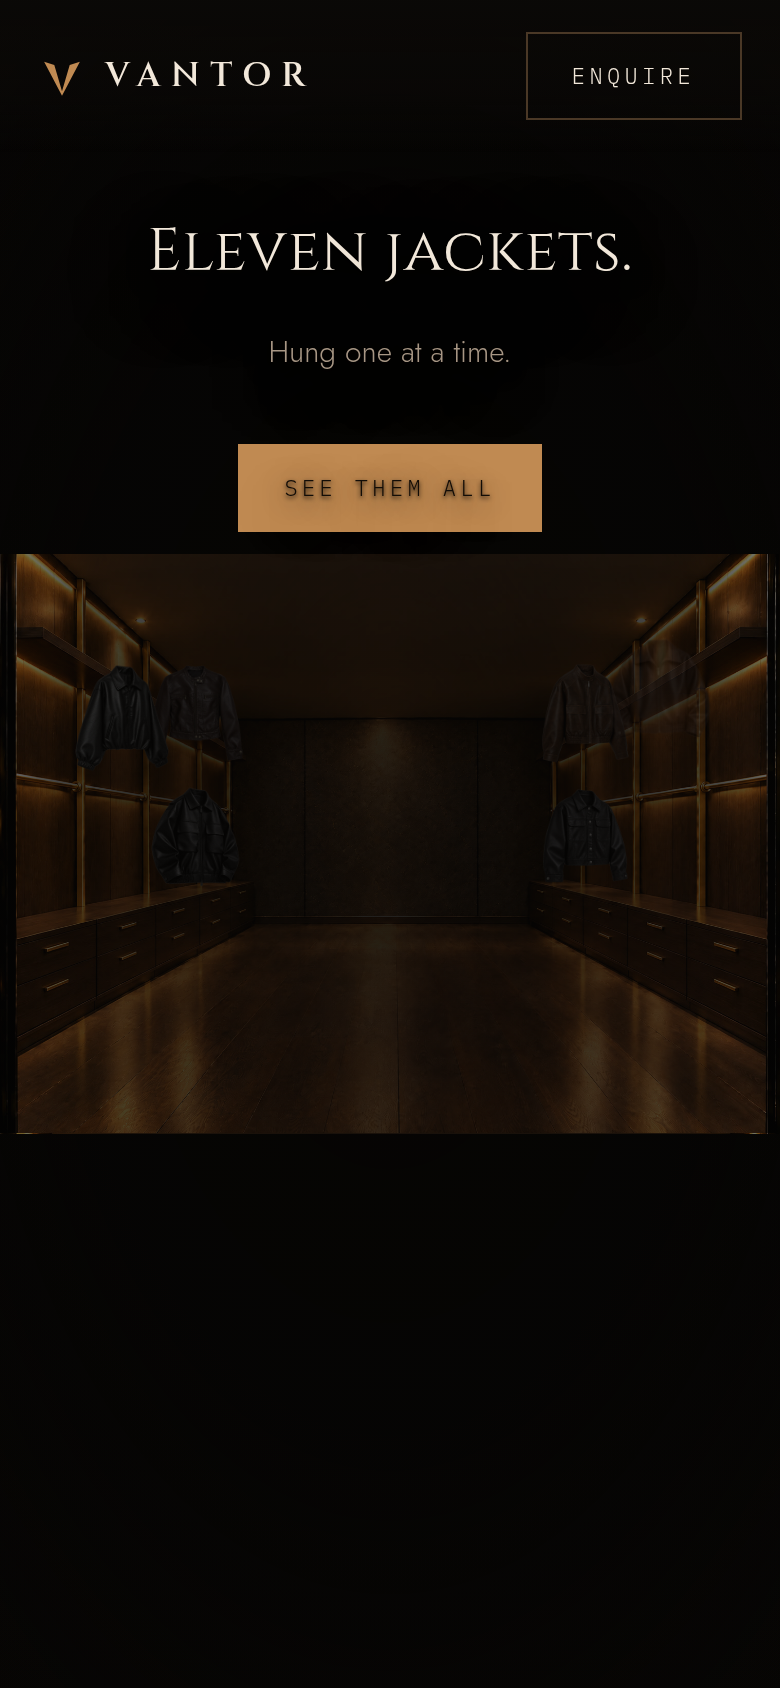
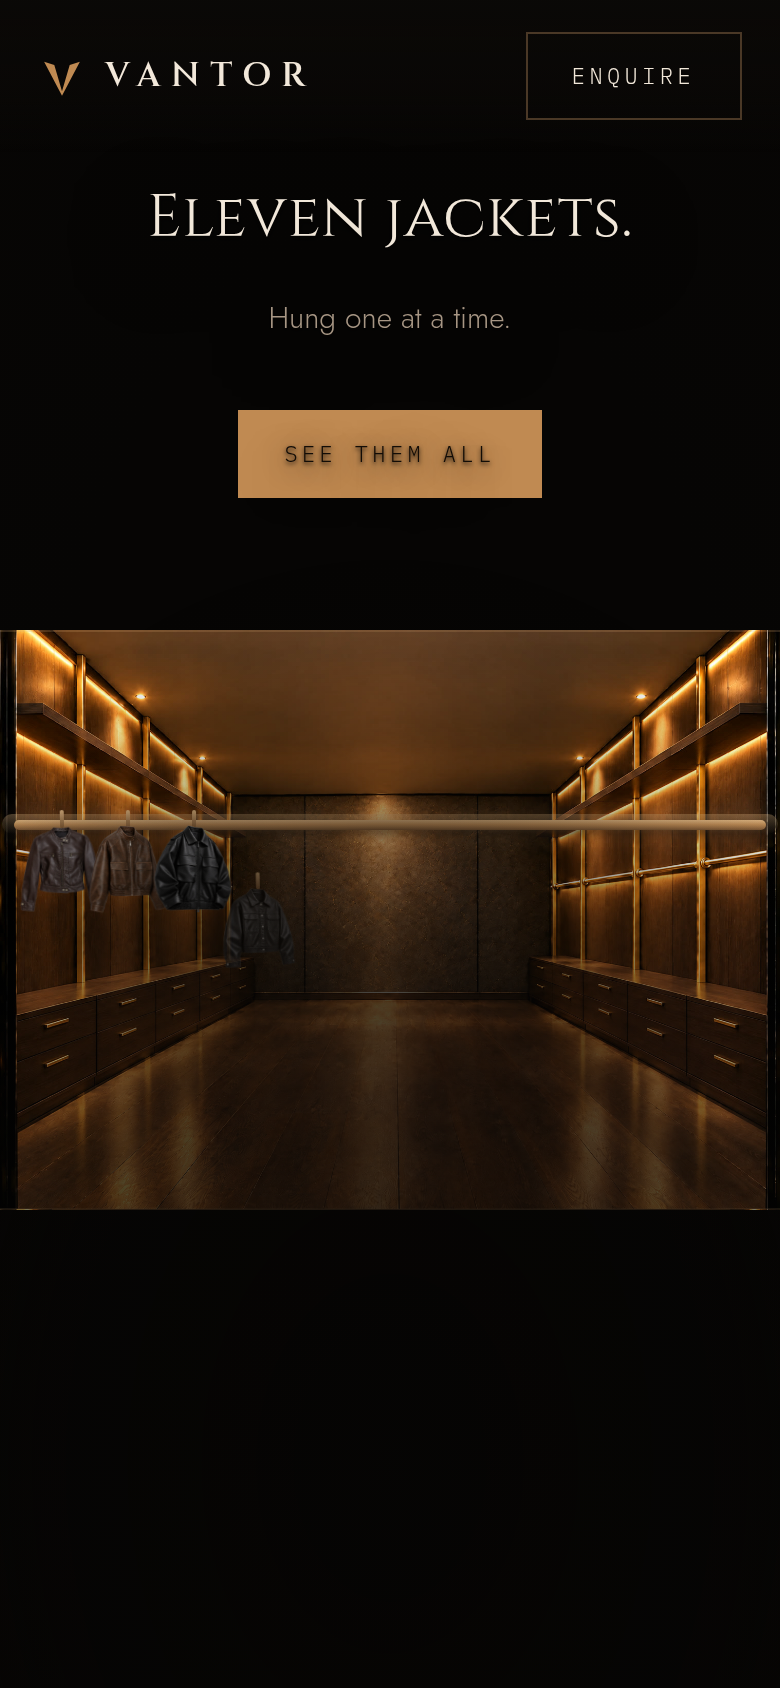
Build the wardrobe: drawer banks, a hanging rail, jackets that rise onto it
The boxes and shelves now show as being built, and the eleven garments hang on
brass rather than near it.

The drawer banks were measured off the room itself by differencing the railed
frame against the fitted one: the left runs y 58 to 79 percent of the frame and
x 10 to 35, the right y 58 to 82 and x 65 to 91. Each stacks upward out of the
floor in four tiers, easing then holding on each course, so you watch the
shelves go in rather than watch a panel slide. The right bank starts a beat
after the left, because two banks building in lockstep read as one object.

Those banks are cut from the fitted frame, which was shot with the lights
already up, so dropped straight onto the unlit room they showed as a bright
rectangle. Measured across both banks the unlit room is 0.591 of the fitted one,
so the layer is dimmed by exactly that and lifted back to 1 on the same beat as
the lights. That left a residual step where the clip meets the floor, 1.7 of
about 45 on the left and 2.6 of 50 on the right, which over a run that wide
shows as a line; masking the resting edges soft takes both to 0.5 and 0.7, below
the image's own noise. The build edge travels through the opaque middle of that
mask and stays hard, because a shelf going in should have an edge.

The garments hang on a drawn rail across the middle of the room. The wall rails
run diagonally with the perspective and their fitted lines come out asymmetric
[…]

diff --git a/site/index.html b/site/index.html
@@ -157,13 +157,16 @@ a{color:inherit}
    hand. A little more depth buys headroom for a visitor on a bright screen. */
 #b3::before{background:radial-gradient(ellipse 80% 66% at 50% 50%,
   rgba(6,5,4,.78) 0%,rgba(6,5,4,.56) 48%,rgba(6,5,4,0) 78%)}
-#b4::before{background:radial-gradient(ellipse 86% 70% at 50% 50%,
-  rgba(6,5,4,.90) 0%,rgba(6,5,4,.72) 46%,rgba(6,5,4,.28) 72%,rgba(6,5,4,0) 88%)}
 .band .inner{position:relative;max-width:min(1100px,92vw);text-align:center}
-/* the closing beat drops below the rail so it never sits across the garments */
-#b3{place-items:end center;padding-bottom:clamp(28px,7vh,74px)}
+/* The last two beats drop to the floor of the frame. Band 3 because the light
+   it names comes from above, and band 4 because centred it lands straight
+   across the eleven garments it is talking about, which reads as a caption
+   pasted on the picture rather than a line spoken in the room. */
+#b3,#b4{place-items:end center;padding-bottom:clamp(28px,7vh,74px)}
 #b3::before{background:radial-gradient(ellipse 78% 46% at 50% 82%,
   rgba(6,5,4,.88) 0%,rgba(6,5,4,.62) 52%,rgba(6,5,4,0) 82%)}
+#b4::before{background:radial-gradient(ellipse 82% 54% at 50% 84%,
+  rgba(6,5,4,.92) 0%,rgba(6,5,4,.70) 50%,rgba(6,5,4,.20) 76%,rgba(6,5,4,0) 92%)}
 .band h2{font-family:var(--display);font-weight:400;margin:0;
   font-size:clamp(30px,6.2vw,76px);line-height:1.08;letter-spacing:.012em}
 .band h2 .vh{position:absolute;width:1px;height:1px;overflow:hidden;clip:rect(0 0 0 0);white-space:nowrap}
@@ -238,11 +241,30 @@ a{color:inherit}
    rails but keeps every jacket on screen, and move the copy off the room so the
    two stop fighting for the same space. */
 @media (max-aspect-ratio: 3/4){
-  .room-frame{width:132%}
-  .band{place-items:start center;padding-top:13vh}
+  .room-frame{width:132%;margin-top:9vh}
+  /* A 16:9 room on a tall phone letterboxes whatever you do, and widening it
+     any further starts throwing the end jackets off the sides. So the frame is
+     dropped to sit under the copy rather than floating in the middle of the
+     black, and given a brass hairline top and bottom so the letterbox reads as
+     a film frame instead of a picture that failed to load. */
+  .room-frame::after{content:"";position:absolute;inset:0;pointer-events:none;z-index:9;
+    border-top:1px solid rgba(224,174,119,.20);
+    border-bottom:1px solid rgba(224,174,119,.20)}
+  .band{place-items:start center;padding-top:11vh}
   .band .inner{max-width:94vw}
-  #b3{place-items:start center;padding-top:13vh;padding-bottom:0}
+  #b3,#b4{place-items:start center;padding-top:11vh;padding-bottom:0}
   .cue{bottom:22px}
+}
+/* On a short phone the copy block and the top of the frame arrive at the same
+   place and the button crosses into the room. Rather than shrink the room,
+   which is the whole point of the beat, the block is tightened and the frame
+   dropped a little further. Measured at 375 by 667, which is the shortest
+   screen this has to hold. */
+@media (max-aspect-ratio: 3/4) and (max-height: 740px){
+  .band,#b3,#b4{padding-top:14vh}
+  .room-frame{margin-top:21vh}
+  .band .sub{margin-top:14px}
+  #b4 .row{margin-top:18px}
 }
 
 .stageimg{position:absolute;inset:0;background-size:cover;background-position:center;
@@ -256,14 +278,53 @@ a{color:inherit}
 /* the lights coming up change the whole frame at once, so that one is a fade */
 .stageimg[data-stage="3"]{opacity:var(--o,0)}
 
-/* Each jacket is its own cut out, lowered onto the rail. Using the cut outs
-   rather than clipping the finished photograph is what makes them read as
-   eleven separate garments being hung rather than a curtain coming down. */
+/* The drawer banks, measured off the room itself: they sit x 10 to 35 percent on
+   the left and 65 to 91 on the right, from 58 percent of the height down to the
+   floor. Each stacks upward out of the floor before the lights come on.
+   These are cut from the FITTED frame, which was shot with the lights already
+   up, so dropped straight onto the unlit room they show as a bright rectangle.
+   Measured across both banks the unlit room is 0.591 of the fitted one, so the
+   layer is dimmed by exactly that and then lifted back to 1 as the lights come
+   on. Matched that way the clip edge disappears into the wall. */
+.drawer{position:absolute;background-size:cover;background-position:center;
+  will-change:clip-path,filter;filter:brightness(var(--dbr,.591))}
+.drawer[data-side="l"]{inset:0;clip-path:inset(var(--dl,79%) 65% 21% 10%)}
+.drawer[data-side="r"]{inset:0;clip-path:inset(var(--dr,82%) 9% 18% 65%)}
+/* Even matched on exposure the clip leaves a measurable step where it meets the
+   floor: 1.7 of about 45 on the left, 2.6 of 50 on the right, which over a run
+   that wide shows as a line. So each bank is masked soft at the two edges that
+   come to rest. The build edge travels through the opaque middle and stays
+   hard, because a shelf going in should have an edge. */
+.drawer[data-side="l"]{-webkit-mask-image:var(--maskL);mask-image:var(--maskL);
+  --maskL:linear-gradient(to bottom,transparent 56%,#000 59.5%,#000 76%,transparent 81%)}
+.drawer[data-side="r"]{-webkit-mask-image:var(--maskR);mask-image:var(--maskR);
+  --maskR:linear-gradient(to bottom,transparent 56%,#000 59.5%,#000 79%,transparent 84%)}
+
+/* The rail the jackets hang on. The wall rails run diagonally with the
+   perspective, and their fitted lines come out asymmetric, so hanging garments
+   off them lands them near the brass rather than on it. This one is drawn, so
+   every jacket sits on it exactly, at any screen size. */
+.midrail{position:absolute;left:13.5%;right:13.5%;top:33.5%;height:0;pointer-events:none;
+  transform:translateY(var(--rdrop,-18px)) scaleX(var(--rail,0));
+  transform-origin:50% 50%;will-change:transform}
+.midrail::before{content:"";position:absolute;inset:-2px 0 auto 0;height:5px;
+  border-radius:3px;
+  background:linear-gradient(180deg,#E8BC85 0%,#C08A52 45%,#7A5330 100%);
+  box-shadow:0 0 14px rgba(224,174,119,.45), 0 2px 5px rgba(0,0,0,.5)}
+.midrail::after{content:"";position:absolute;left:-6px;right:-6px;top:-5px;height:10px;
+  border-radius:5px;background:linear-gradient(180deg,rgba(232,188,133,.35),rgba(122,83,48,0))}
+
+/* Each jacket is its own cut out. They rise from below and settle onto the rail,
+   one after another, which is what makes them read as eleven separate garments
+   being hung rather than a block appearing. */
 .hangers{position:absolute;inset:0;pointer-events:none}
 .hangers .jk{position:absolute;aspect-ratio:1;transform-origin:50% 0;
   will-change:transform,opacity;opacity:0}
 .hangers .jk img{width:100%;height:100%;object-fit:contain;display:block;
-  filter:drop-shadow(0 14px 22px rgba(0,0,0,.6))}
+  filter:drop-shadow(0 16px 26px rgba(0,0,0,.66))}
+.hangers .jk::before{content:"";position:absolute;left:50%;top:-7px;width:2px;height:9px;
+  transform:translateX(-50%);border-radius:1px;
+  background:linear-gradient(180deg,#E8BC85,#8A5F37)}
 
 /* a bronze flare at the moment each stage locks into place */
 .flash{position:absolute;inset:0;pointer-events:none;opacity:0;
@@ -345,6 +406,9 @@ body.detail-open{overflow:hidden}
   .act-room{opacity:1!important;transform:none!important}
   .stageimg{opacity:1!important;clip-path:none!important}
   .hangers .jk{opacity:1!important;transform:none!important}
+  .midrail{transform:none!important}
+  .drawer{clip-path:inset(58% 65% 21% 10%)!important;filter:none!important}
+  .drawer[data-side="r"]{clip-path:inset(58% 9% 18% 65%)!important}
   .flash{opacity:0!important}
   .detail{transition:none}
 }
@@ -544,7 +608,11 @@ body.paused *,body.paused *::before,body.paused *::after{animation-play-state:pa
         <div class="stageimg" data-stage="0" style="background-image:url('assets/room/1-empty.jpg')"></div>
         <div class="stageimg" data-stage="1" style="background-image:url('assets/room/2-posts.jpg')"></div>
         <div class="stageimg" data-stage="2" style="background-image:url('assets/room/3-rails.jpg')"></div>
+        <!-- the drawer banks build upward out of the floor before the lights -->
+        <div class="drawer" data-side="l" style="background-image:url('assets/room/4-fitted.jpg')"></div>
+        <div class="drawer" data-side="r" style="background-image:url('assets/room/4-fitted.jpg')"></div>
         <div class="stageimg" data-stage="3" style="background-image:url('assets/room/4-fitted.jpg')"></div>
+        <div class="midrail" id="midrail" aria-hidden="true"></div>
         <div class="hangers" id="hangers"></div>
         <div class="flash" id="flash" aria-hidden="true"></div>
       </div>
@@ -568,7 +636,7 @@ body.paused *,body.paused *::before,body.paused *::after{animation-play-state:pa
 
     <div class="band" id="b3" data-a="0.58" data-b="0.74">
       <div class="inner">
-        <h2 data-split="word"><span class="vh">Lit from above.</span><span class="vis" aria-hidden="true">Lit from above.</span></h2>
+        <h2 data-split="word"><span class="vh">Shelved, then lit.</span><span class="vis" aria-hidden="true">Shelved, then lit.</span></h2>
         <p class="sub">Every piece where you can see it.</p>
       </div>
     </div>
@@ -869,42 +937,91 @@ function put(el, prop, val, key){
 }
 
 /* Where each stage builds, and how. Stage 0 is the room, which falls into place
-   rather than being revealed. */
+   rather than being revealed. The drawer banks and the hanging rail sit between
+   the fixed stages, so the whole wardrobe reads as one continuous build:
+   posts, rails, boxes, light, rail, garments. */
 var STAGE_BUILD = [
   null,                 /* 0 the room itself */
-  [0.26, 0.46],         /* 1 brass grows up */
-  [0.46, 0.60],         /* 2 rails span out */
-  [0.60, 0.72],         /* 3 lights come up */
+  [0.26, 0.44],         /* 1 brass grows up */
+  [0.44, 0.55],         /* 2 rails span out */
+  [0.66, 0.755],        /* 3 lights come up */
   null                  /* 4 replaced by the hangers below */
 ];
 
-/* Where each jacket hangs. The rails were measured, not guessed, by
-   differencing the empty room against the finished one: each runs 13.4 to 34.5
-   percent of the frame on the left and 65.5 to 86.8 on the right, in two rows
-   between 19 and 63 percent of the height. Nearer the camera is nearer the
-   frame edge, so those jackets are larger. Heights are a share of the frame
-   height; the cut outs are square, so width follows from the 16:9 frame. */
+/* A stepped ease. Anything assembled out of parts uses this rather than a plain
+   ramp: each part eases in, holds, and only then does the next one start. That
+   hold is the difference between a thing being built and a thing sliding in. */
+function stepped(r, n){
+  if(r <= 0) return 0;
+  if(r >= 1) return 1;
+  var s = r*n, i = Math.floor(s), f = s - i;
+  return (i + smoothstep(f, 0, 0.7)) / n;
+}
+
+/* The drawer banks. Their boxes were measured off the room, by differencing the
+   railed frame against the fitted one: the left bank runs y 58 to 79 percent,
+   the right y 58 to 82. Each one stacks upward out of the floor in four tiers,
+   so you watch the shelves go in one course at a time. The right bank starts a
+   beat after the left, because two banks building in lockstep read as one. */
+var DRAWERS = [
+  { sel:'[data-side="l"]', prop:'--dl', a:0.545, b:0.650, floor:79, lid:58, tiers:4 },
+  { sel:'[data-side="r"]', prop:'--dr', a:0.568, b:0.672, floor:82, lid:58, tiers:4 }
+];
+var drawerEls = null, lastDrawer = [];
+function drawDrawers(p){
+  if(!drawerEls) drawerEls = DRAWERS.map(function(d){ return $('.drawer' + d.sel, room); });
+  for(var i=0;i<DRAWERS.length;i++){
+    var d = DRAWERS[i], el = drawerEls[i];
+    if(!el) continue;
+    var k = stepped(smoothstep(p, d.a, d.b), d.tiers);
+    var v = (d.floor - k*(d.floor - d.lid)).toFixed(2) + '%';
+    if(lastDrawer[i] !== v){ lastDrawer[i] = v; el.style.setProperty(d.prop, v); }
+  }
+  /* lift out of the unlit exposure on the same beat as the lights above */
+  var br = (0.591 + smoothstep(p, 0.66, 0.755)*0.409).toFixed(3);
+  if(lastDrawer.br !== br){
+    lastDrawer.br = br;
+    for(var j=0;j<drawerEls.length;j++)
+      if(drawerEls[j]) drawerEls[j].style.setProperty('--dbr', br);
+  }
+}
+
+/* The hanging rail draws outward from the centre and drops the last few pixels
+   onto its brackets, which is the beat the first jacket arrives on. */
+var RAIL_A = 0.735, RAIL_B = 0.805;
+var railEl = null, lastRail = '';
+function drawRail(p){
+  if(!railEl) railEl = $('#midrail');
+  if(!railEl) return;
+  var k  = smoothstep(p, RAIL_A, RAIL_B);
+  var sx = k.toFixed(4);
+  var dy = (-18*(1-k)).toFixed(2) + 'px';
+  var key = sx + '|' + dy;
+  if(lastRail === key) return;
+  lastRail = key;
+  railEl.style.setProperty('--rail', sx);
+  railEl.style.setProperty('--rdrop', dy);
+}
+
+/* Where each jacket hangs. The wall rails run diagonally with the perspective
+   and their fitted lines come out asymmetric between the two sides, so garments
+   hung off them land near the brass rather than on it. These hang on the drawn
+   rail instead, which puts every one of them exactly on the bar at any screen
+   size. Eleven centres evenly across it, cut outs square, so a width in frame
+   width maps to nine sixteenths of it in frame height. */
 var JACKETS = (function(){
-  var rows = [18.5, 40.0];                  /* top of the upper and lower rails */
-  var cols = [                              /* centre x, height, per column */
-    { lx:31.1, rx:68.9, h:17.5 },           /* far */
-    { lx:24.0, rx:76.0, h:19.5 },
-    { lx:16.9, rx:83.1, h:21.5 }            /* nearest the camera */
-  ];
-  var out = [];
-  /* hung from the far end of both rails forward, alternating sides, which is
-     the order somebody actually working the rail would use */
-  var plan = [
-    [0,'l',0],[0,'r',0],[0,'l',1],[0,'r',1],
-    [1,'l',0],[1,'r',0],[1,'l',1],[1,'r',1],
-    [2,'l',0],[2,'r',0],[2,'l',1]
-  ];
-  plan.forEach(function(q, i){
-    var c = cols[q[0]], cx = (q[1] === 'l') ? c.lx : c.rx;
-    var hPct = c.h;
-    var wPct = hPct * 9 / 16;               /* square in a 16:9 frame */
-    out.push({ left:(cx - wPct/2), top:rows[q[2]], h:hPct, w:wPct, slug:RANGE[i][0] });
-  });
+  var n = RANGE.length, x0 = 18, x1 = 82, wPct = 8.8, out = [];
+  for(var i=0;i<n;i++){
+    var cx = x0 + (x1-x0)*(i/(n-1));
+    /* Eleven hangers pushed onto one bar never sit to the millimetre. A fixed
+       tilt and a hair of height per garment, seeded off the index so it is the
+       same every reload, is the difference between a rail and a row of stamps. */
+    out.push({
+      left:(cx - wPct/2), w:wPct, slug:RANGE[i][0],
+      top: 33.5 + ((i*53)%5 - 2)*0.09,
+      tilt: ((i*37)%7 - 3)*0.42
+    });
+  }
   return out;
 })();
 
@@ -920,18 +1037,28 @@ function buildHangers(){
   hangEls = $$('#hangers .jk');
 }
 
-var HANG_FROM = 0.72, HANG_TO = 0.99;
+/* One at a time, left to right along the bar, the way somebody actually working
+   a rail would do it. Each one rises from the floor, meets the brass, and swings
+   itself still. */
+var HANG_FROM = 0.795, HANG_TO = 0.99, HANG_OVER = 1.6;
 var lastHang = [];
 function drawHangers(p){
   var n = hangEls.length;
+  if(!n) return;
+  /* Each jacket's window overlaps the next by HANG_OVER, so the rail fills
+     continuously rather than in eleven separate stops. The step is sized off
+     that overlap, not off n, so the last one finishes exactly on HANG_TO
+     instead of running past the end of the hero with its feet in the air. */
+  var span = (HANG_TO - HANG_FROM) / (n - 1 + HANG_OVER);
   for(var i=0;i<n;i++){
-    var span = (HANG_TO - HANG_FROM) / n;
     var a0 = HANG_FROM + i*span;
-    var k = smoothstep(p, a0, a0 + span*1.5);
-    /* it drops in, overshoots a little, and swings to rest on the hook */
-    var swing = Math.sin((1-k) * Math.PI * 2) * (1-k) * 7;
-    var v = 'translateY(' + ((1-k) * -46).toFixed(1) + '%) rotate(' + swing.toFixed(2) + 'deg)';
-    var o = k.toFixed(3);
+    var k  = smoothstep(p, a0, a0 + span*HANG_OVER);
+    var rise  = (1-k)*150;
+    var swing = Math.sin((1-k)*Math.PI*3)*(1-k)*6 + JACKETS[i].tilt*k;
+    var sc    = 0.9 + k*0.1;
+    var v = 'translateY(' + rise.toFixed(1) + '%) rotate(' + swing.toFixed(2)
+          + 'deg) scale(' + sc.toFixed(3) + ')';
+    var o = Math.min(1, k*1.4).toFixed(3);
     var key = v + o;
     if(lastHang[i] !== key){
       lastHang[i] = key;
@@ -943,21 +1070,21 @@ function drawHangers(p){
 
 /* A bronze flare on the beat each stage locks in, so the build has punctuation
    rather than just sliding along. */
-var FLARES = [0.23, 0.46, 0.60, 0.72];
+var FLARES = [0.23, 0.44, 0.55, 0.665, 0.755, 0.805];
 var flashEl = null, lastFlash = '';
 function drawFlash(p){
   if(!flashEl) flashEl = $('#flash');
   var best = 0;
   for(var i=0;i<FLARES.length;i++){
     var d = Math.abs(p - FLARES[i]);
-    var v = Math.max(0, 1 - d/0.028);
+    var v = Math.max(0, 1 - d/0.024);
     if(v > best) best = v;
   }
   var o = (best*best*0.85).toFixed(3);
   if(lastFlash !== o){ lastFlash = o; flashEl.style.opacity = o; }
 }
 
-var lastR = [];var lastR = [];var lastR = [];
+var lastR = [];
 
 /* How far open a sideways wipe is, as the inset from each edge.
    In this one point perspective the centre of the frame is the far END WALL,
@@ -966,7 +1093,7 @@ var lastR = [];var lastR = [];var lastR = [];
    first slice of the beat crosses that empty middle quickly, and the rest of it
    is spent on the part that actually has something to reveal. */
 function wipeInset(r){
-  var half = (r <= 0.15) ? (r/0.15) * 17 : 17 + ((r-0.15)/0.85) * 33;
+  var half = (r <= 0.15) ? (r/0.15)*17 : 17 + ((r-0.15)/0.85)*33;
   return (50 - half).toFixed(2) + '%';
 }
 
@@ -974,16 +1101,17 @@ function drawRoom(p){
   for(var i=1;i<stageEls.length;i++){
     var w = STAGE_BUILD[i];
     if(!w) continue;
-    var r = smoothstep(p, w[0], w[1]);
     var el = stageEls[i], v;
-    if(i === 1){                       /* grows upward out of the floor */
-      v = (100 - r*100).toFixed(2) + '%';
+    if(i === 1){                       /* the posts go up in courses */
+      var r1 = stepped(smoothstep(p, w[0], w[1]), 3);
+      v = (100 - r1*100).toFixed(2) + '%';
       if(lastR[i] !== v){ lastR[i] = v; el.style.setProperty('--y', v); }
     } else if(i === 3){                /* the lights, a straight fade */
-      v = r.toFixed(3);
+      v = smoothstep(p, w[0], w[1]).toFixed(3);
       if(lastR[i] !== v){ lastR[i] = v; el.style.setProperty('--o', v); }
-    } else {                           /* wipes outward from the far wall */
-      v = wipeInset(r);
+    } else {                           /* the rails span out, bay by bay */
+      var r2 = stepped(smoothstep(p, w[0], w[1]), 3);
+      v = wipeInset(r2);
       if(lastR[i] !== v){ lastR[i] = v; el.style.setProperty('--x', v); }
     }
   }
@@ -1007,6 +1135,8 @@ function drawJourney(p){
     'translateY(' + ((1-fall) * -62).toFixed(2) + '%) ' +
     'scale(' + (1 + (1-settle) * 0.18).toFixed(4) + ')', 'rt');
   drawRoom(p);
+  drawDrawers(p);
+  drawRail(p);
   drawHangers(p);
   drawFlash(p);
 
@@ -1062,10 +1192,17 @@ if('IntersectionObserver' in window){
   },{threshold:0}).observe(hero);
 }
 
+/* The garments are put on the rail whatever happens, because the reduced motion
+   hero is the finished wardrobe and it needs them there. Built inside the scrub
+   path they were missing on a fresh load with the preference already set, which
+   a live flip of that preference never catches: by then the page had built them
+   under the other mode. Without the drive they cost nothing, since CSS holds
+   them at zero and the reduced motion rule brings them up. */
+buildHangers();
+
 var heroInit = false;
 function initHeroOnce(){
   if(heroInit) return; heroInit = true;
-  buildHangers();
   loadStart = performance.now();
   /* the later stages are the heaviest, so warm them before the visitor arrives */
   ['assets/room/2-posts.jpg','assets/room/3-rails.jpg',
@@ -1080,7 +1217,7 @@ function enableScrub(){
   window.addEventListener('scroll', onScroll, { passive:true });
   bands.forEach(function(b2){ b2.op = -1; b2.k = -1; });
   lastVal = {};
-  lastR = []; lastHang = []; lastFlash = '';
+  lastR = []; lastHang = []; lastDrawer = []; lastFlash = ''; lastRail = '';
   unpinFinalStates();
   updateCaptions(heroProgress());
   onScroll();
